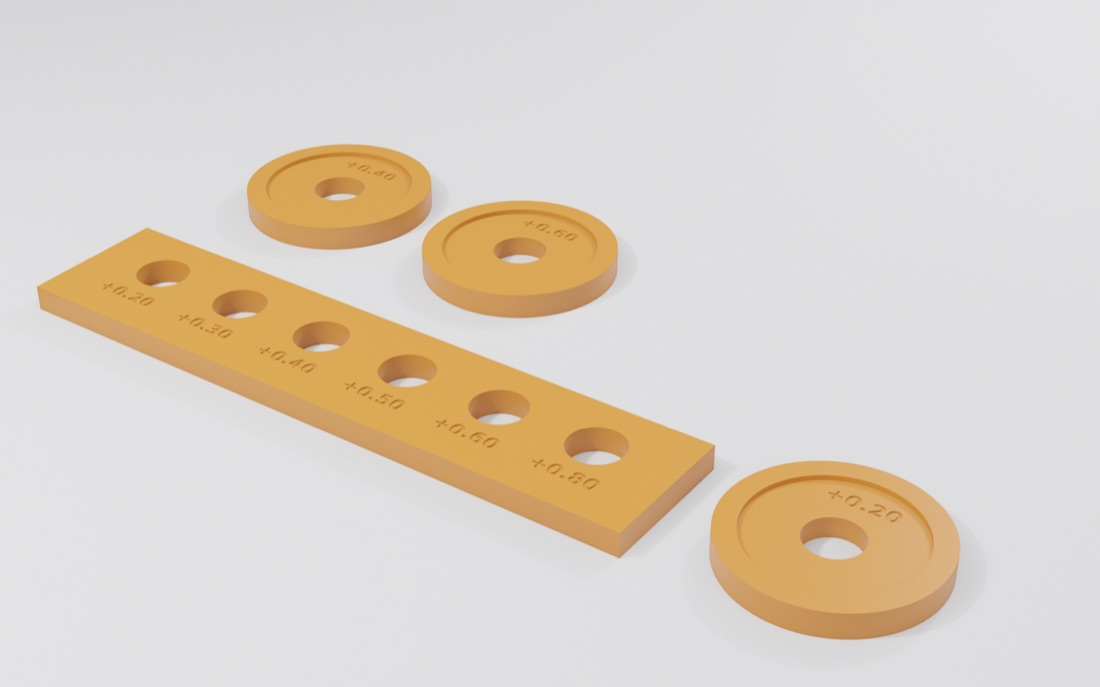
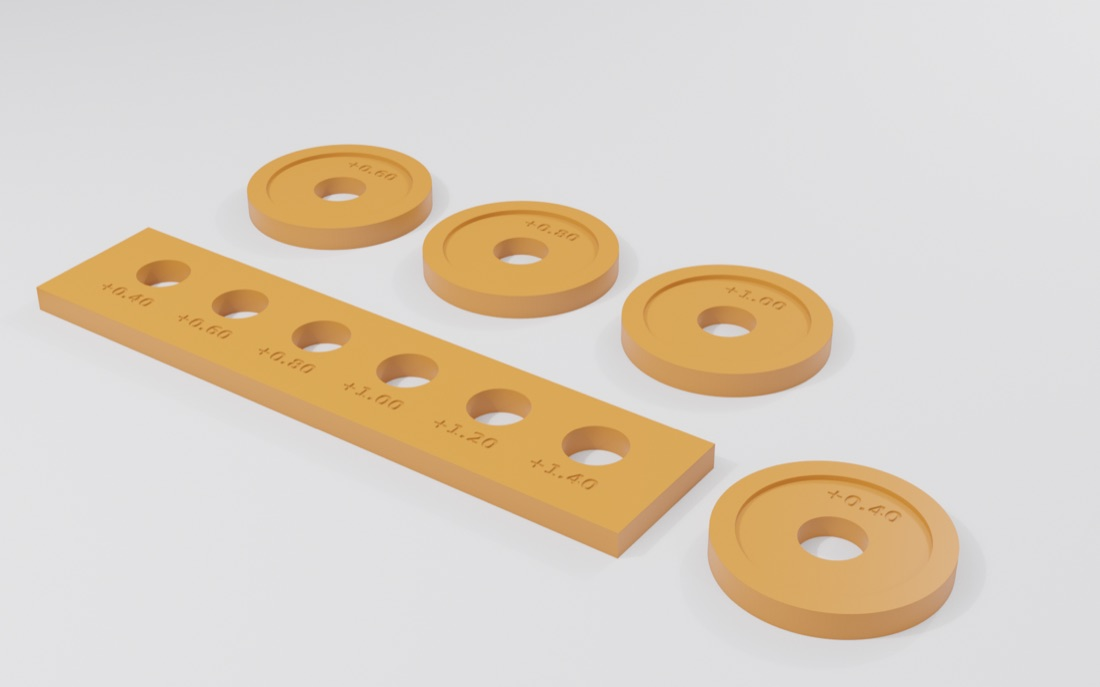
grip-lab paper: generic clearances table, re-centred coupon ladders and renders

diff --git a/public/secret/climbing/holds/index.html b/public/secret/climbing/holds/index.html
@@ -304,11 +304,36 @@ real hardware against each ladder and enters the best value in <code>[clearance]
     <thead><tr><th>Coupon</th><th>Tests</th><th>Ladder</th><th>Sets</th></tr></thead>
     <tbody>
       <tr><td>Dovetail</td><td>60&deg; key in rail (cassette fit)</td><td>0.10&ndash;0.40&nbsp;mm, 7 keys</td><td><code>dovetail_per_flank_mm</code></td></tr>
-      <tr><td>Rod bore</td><td>&empty;8 rod, horizontal teardrop</td><td>&Delta; &minus;0.10 to +0.40&nbsp;mm</td><td><code>rod_slide_dia_mm</code>, <code>rod_press_dia_mm</code></td></tr>
-      <tr><td>Bolt bore</td><td>M10 bore and fender-washer seat</td><td>&Delta; +0.20 to +0.80; seat +0.20 to +0.60</td><td><code>bolt_dia_mm</code>, <code>washer_seat_dia_mm</code></td></tr>
+      <tr><td>Rod bore</td><td>&empty;8 rod, horizontal teardrop</td><td>&Delta; 0 to +0.60&nbsp;mm</td><td><code>rod_slide_dia_mm</code>, <code>rod_press_dia_mm</code></td></tr>
+      <tr><td>Bolt bore</td><td>M10 bore and fender-washer seat</td><td>&Delta; +0.40 to +1.40; seat +0.40 to +1.00</td><td><code>bolt_dia_mm</code>, <code>washer_seat_dia_mm</code></td></tr>
       <tr><td>Insert</td><td>Heat-set M3, M4, M6 pockets</td><td>&Delta; &minus;0.10, 0, +0.10&nbsp;mm</td><td><code>insert_hole_delta_dia_mm</code></td></tr>
-      <tr><td>Pin detent</td><td>&empty;6 ball-lock pin, plunger dimples, 5&nbsp;mm staggered pitch</td><td>&Delta; +0.05 to +0.30; depth 0.6&ndash;1.2&nbsp;mm</td><td><code>ball_lock_pin_dia_mm</code></td></tr>
+      <tr><td>Pin detent</td><td>&empty;6 ball-lock pin, plunger dimples, 5&nbsp;mm staggered pitch</td><td>&Delta; +0.20 to +0.60; depth 0.6&ndash;1.2&nbsp;mm</td><td><code>ball_lock_pin_dia_mm</code></td></tr>
       <tr><td>Texture</td><td>Stipple feel and chalk retention</td><td>0.15, 0.25, 0.35&nbsp;mm bumps</td><td><code>features.stipple</code></td></tr>
+    </tbody>
+  </table></div>
+</div>
+
+<p>Until the coupons are printed, the kit uses the generic clearances in
+Table&nbsp;<a href="#tab-clear">4</a>. They are chosen so that roughly 80&nbsp;% of current, well-maintained
+printers can assemble the parts without sanding or force. The values deliberately err loose. A fit
+that is too tight fails to assemble, or cracks a part that is forced. Slight play is harmless here,
+because steel carries the load and the printed bodies are clamped. FDM holes typically print
+0.1&ndash;0.3&nbsp;mm undersize, and the values already allow for this. Each coupon ladder is centred on
+its generic value, so a printed coupon can tune the fit in either direction.</p>
+
+<div class="table" id="tab-clear">
+  <div class="cap">Generic clearances currently in use (assumed, not measured). Each is added to the
+  nominal hardware size.</div>
+  <div class="scroll"><table>
+    <thead><tr><th>Fit</th><th class="n">Clearance (mm)</th><th>Result</th></tr></thead>
+    <tbody>
+      <tr><td>Dovetail, per flank</td><td class="n">0.25</td><td>Cassette slides on by hand</td></tr>
+      <tr><td>&empty;8 rod, sliding jaw</td><td class="n">+0.40</td><td>Jaws slide freely, even chalked</td></tr>
+      <tr><td>&empty;8 rod, hub</td><td class="n">+0.10</td><td>Snug push fit without cracking</td></tr>
+      <tr><td>M10 rod through body</td><td class="n">+1.00</td><td>11.0&nbsp;mm, ISO&nbsp;273 medium clearance</td></tr>
+      <tr><td>Fender-washer seat</td><td class="n">+0.80</td><td>Centres the washer; DIN&nbsp;9021 runs undersize</td></tr>
+      <tr><td>&empty;6 ball-lock pin</td><td class="n">+0.40</td><td>Balls lock past the exit face</td></tr>
+      <tr><td>Heat-set insert hole</td><td class="n">0.00</td><td>Maker's recommended hole</td></tr>
     </tbody>
   </table></div>
 </div>
@@ -339,9 +364,10 @@ real hardware against each ladder and enters the best value in <code>[clearance]
 
 <h2 class="sec" id="status">Status and future work</h2>
 <p>The software scaffold, continuous integration, core feature library and the six coupons are complete,
-and all coupons pass their geometry checks. The next steps, in order, are:</p>
+all coupons pass their geometry checks, and generic clearances are set so that design work can
+proceed before the coupons are printed. The next steps, in order, are:</p>
 <ol>
-  <li>print the coupons and set the clearances from the results;</li>
+  <li>print the coupons and replace the generic clearances with measured ones;</li>
   <li>add overhang-map, minimum-wall (2.4&nbsp;mm) and analytical structural checks (lip bending, rod
   bearing, bolt-hole shear-out), with optional CalculiX finite-element analysis as a sanity pass;</li>
   <li>model the P1 parts (edge block, pinch block, gauge housing), then the P2 and P3 parts;</li>
